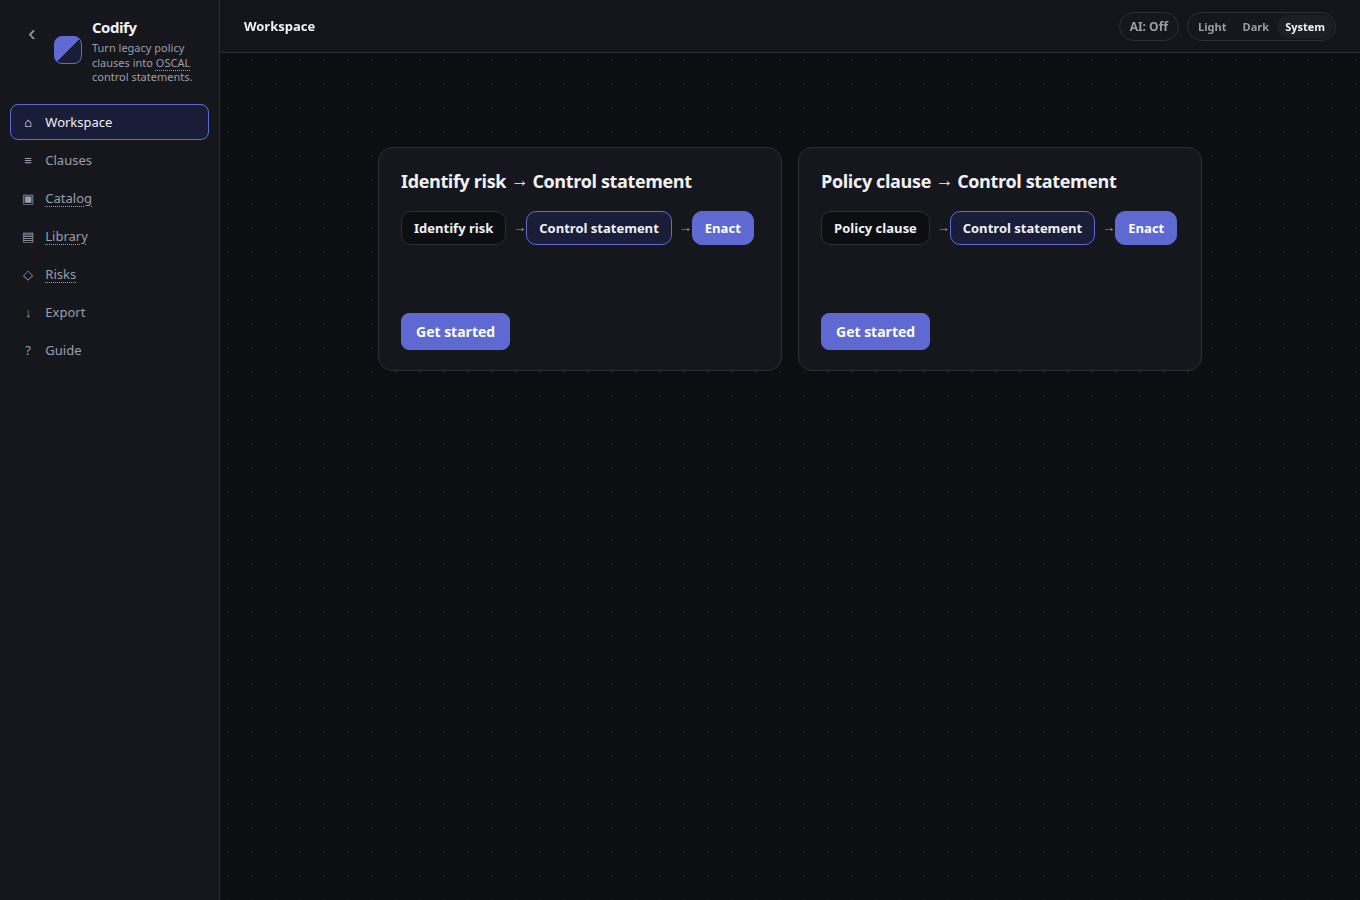
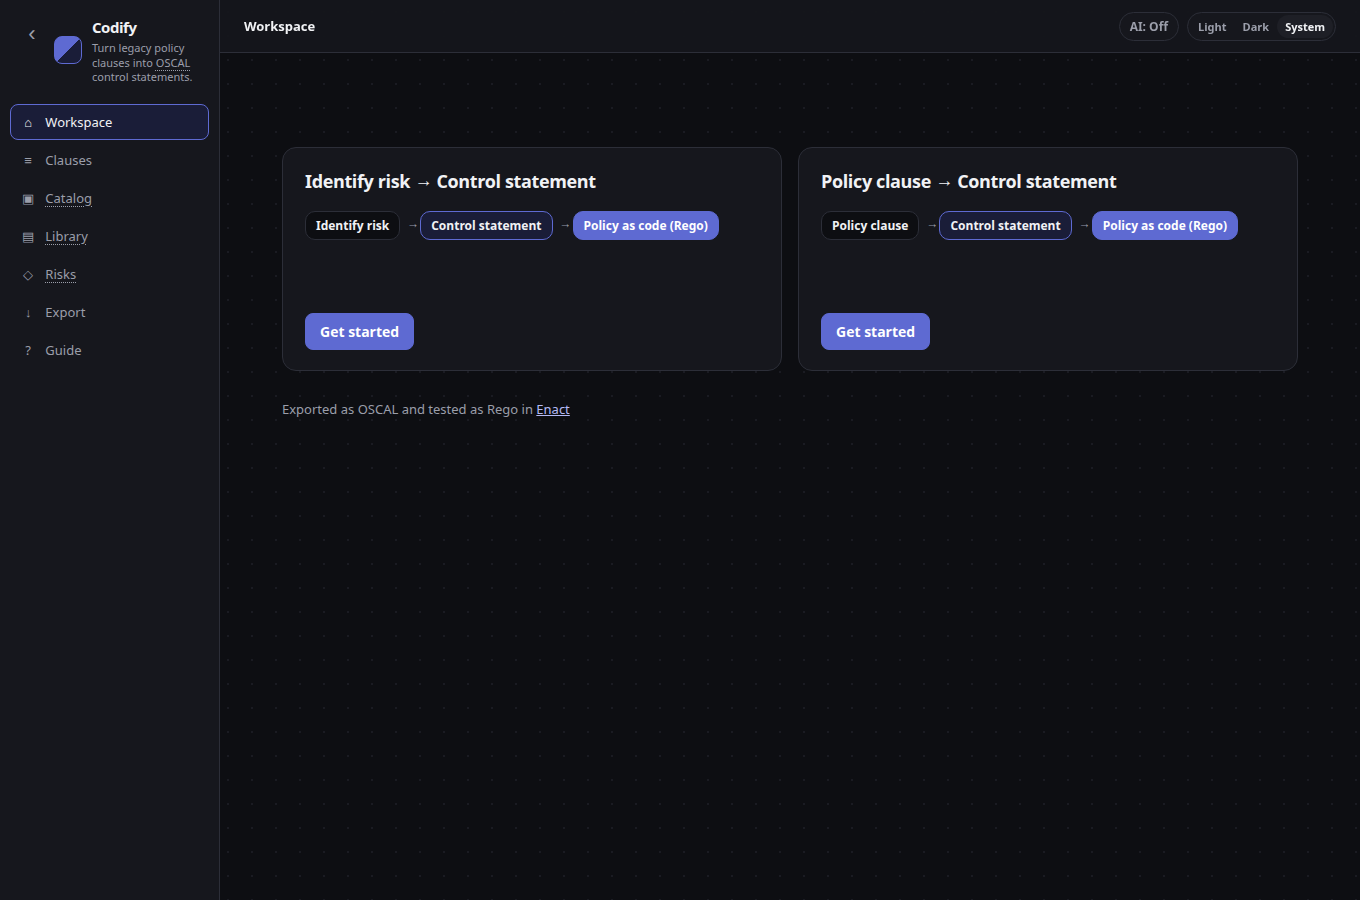
Name the last step Policy as code (Rego) (#41)
* Name the last landing step Technical policy (Rego)

First-time users do not know Enact. Flow cards now end on Technical
policy (Rego), with a muted caption that Enact tests that policy as
Rego. Send to Enact stays the action and explains the Rego handoff.

* Rename the last step to Policy as code (Rego)

Owner asked to use Policy as code (Rego) instead of Technical policy
(Rego) on the landing diagrams and matching copy.

---------

diff --git a/src/codify/static/index.html b/src/codify/static/index.html
@@ -94,23 +94,28 @@
           <div id="start-choice" class="landing-cards" role="group" aria-label="Choose a starting path">
             <article class="flow-card" aria-labelledby="flow-a-title">
               <h3 id="flow-a-title" class="flow-card__title">Identify risk → Control statement</h3>
-              <ol class="flow-card__steps" aria-label="Identify risk, then control statement, then Enact">
+              <ol class="flow-card__steps" aria-label="Identify risk, then control statement, then policy as code (Rego)">
                 <li>Identify risk</li>
                 <li>Control statement</li>
-                <li>Enact</li>
+                <li>Policy as code (Rego)</li>
               </ol>
               <button type="button" class="btn btn--primary" id="start-from-risks">Get started</button>
             </article>
             <article class="flow-card" aria-labelledby="flow-b-title">
               <h3 id="flow-b-title" class="flow-card__title">Policy clause → Control statement</h3>
-              <ol class="flow-card__steps" aria-label="Policy clause, then control statement, then Enact">
+              <ol class="flow-card__steps" aria-label="Policy clause, then control statement, then policy as code (Rego)">
                 <li>Policy clause</li>
                 <li>Control statement</li>
-                <li>Enact</li>
+                <li>Policy as code (Rego)</li>
               </ol>
               <button type="button" class="btn btn--primary" id="start-from-clause">Get started</button>
             </article>
           </div>
+
+          <p id="landing-caption" class="landing-caption">
+            Exported as OSCAL and tested as Rego in
+            <a href="https://code1sentinel.github.io/enact/" target="_blank" rel="noopener noreferrer">Enact</a>
+          </p>
 
           <p id="resume" class="landing-resume" hidden>
             <button type="button" class="landing__quiet" id="resume-open">Resume</button>
@@ -284,7 +289,7 @@ User accounts shall be reviewed regularly.</textarea>
         </div>
         <button type="submit" class="icon-btn" value="cancel" aria-label="Close">×</button>
       </div>
-      <p class="dialog__lede">Download a copy on this device. Nothing is uploaded.</p>
+      <p class="dialog__lede">Download a copy on this device. Nothing is uploaded. Send to Enact turns control statements into testable Rego policy.</p>
       <div class="enact-handoff" id="enact-handoff">
         <p><strong>Codify writes the catalog. Enact runs the checks.</strong> They share a file, not a server.</p>
         <ol class="enact-handoff__steps">

diff --git a/src/codify/static/app.js b/src/codify/static/app.js
@@ -113,8 +113,8 @@ const STEP_GUIDES = {
   },
   enact: {
     title: "Send to Enact",
-    what: "Download the OSCAL catalog on this device, then open it in Enact.",
-    why: "Codify writes the catalog. Enact runs the checks. They share a file, not a server.",
+    what: "Download the OSCAL catalog on this device, then open it in Enact. This turns control statements into testable Rego policy.",
+    why: "Codify writes the catalog. Enact runs the checks as Rego. They share a file, not a server.",
     example: "Save catalog.json, open Enact, load that file.",
     mistakes: "Codify does not upload the catalog. If download is blocked, accept coverage first.",
   },
@@ -1322,7 +1322,7 @@ function renderEnactStep(box) {
   box.replaceChildren(
     el("div", { class: "card enact-panel", id: "enact-step" },
       el("h3", { class: "section-title", text: "Send to Enact" }),
-      el("p", { text: "Codify writes the catalog. Enact runs the checks. They share a file, not a server. Download only — nothing is uploaded." }),
+      el("p", { text: "Send to Enact turns control statements into testable Rego policy. Codify writes the catalog. Enact runs the checks. They share a file, not a server. Download only — nothing is uploaded." }),
       el("ol", { class: "enact-handoff__steps" },
         el("li", { text: "Download the OSCAL catalog on this device." }),
         el("li", {}, "Open ", el("a", { href: ENACT_APP, target: "_blank", rel: "noopener noreferrer", text: "Enact" }), " (Pages app)."),

diff --git a/src/codify/static/app.css b/src/codify/static/app.css
@@ -294,7 +294,7 @@ input:focus, select:focus, textarea:focus { border-color: var(--orange); outline
 
 /* Start / landing -------------------------------------------------------- */
 
-.start { max-width: 52rem; margin: 0 auto; }
+.start { max-width: 64rem; margin: 0 auto; }
 .landing {
   display: flex;
   flex-direction: column;
@@ -331,11 +331,11 @@ input:focus, select:focus, textarea:focus { border-color: var(--orange); outline
 .flow-card__steps li {
   position: relative;
   display: inline-block;
-  padding: 8px 12px;
+  padding: 6px 10px;
   background: var(--bg);
   border: 1px solid var(--border-soft);
   border-radius: 10px;
-  font: 600 13px/1.3 var(--font);
+  font: 600 12px/1.3 var(--font);
   color: var(--text);
 }
 .flow-card__steps li:nth-child(2) { border-color: var(--orange); background: var(--orange-dim); }
@@ -353,6 +353,12 @@ input:focus, select:focus, textarea:focus { border-color: var(--orange); outline
   font-weight: 600;
 }
 .flow-card .btn { align-self: start; margin-top: auto; }
+.landing-caption {
+  margin: 0;
+  font-size: 13px;
+  color: var(--muted);
+}
+.landing-caption a { color: var(--accent-text); }
 .landing-resume {
   display: flex;
   flex-wrap: wrap;

diff --git a/tests/test_landing.py b/tests/test_landing.py
@@ -29,14 +29,16 @@ def test_landing_is_two_flow_cards_with_get_started():
     risks = _card(INDEX, "start-from-risks")
     assert "Identify risk" in risks
     assert "Control statement" in risks
-    assert "Enact" in risks
+    assert "Policy as code (Rego)" in risks
+    assert ">Enact<" not in risks
     assert "Get started" in risks
     assert "Recommended" not in risks
     assert "Screens left unlocked" not in risks
     clause = _card(INDEX, "start-from-clause")
     assert "Policy clause" in clause
     assert "Control statement" in clause
-    assert "Enact" in clause
+    assert "Policy as code (Rego)" in clause
+    assert ">Enact<" not in clause
     assert "Get started" in clause
     assert "Users shall lock screens" not in clause
     assert 'id="landing-flow"' not in INDEX
@@ -85,3 +87,20 @@ def test_landing_uses_existing_tokens_and_system_fonts():
     assert ".flow-card" in CSS
     assert "fonts.googleapis" not in CSS
     assert 'href="#main"' in INDEX
+
+
+def test_landing_caption_explains_oscal_and_enact():
+    assert 'id="landing-caption"' in INDEX
+    caption = INDEX.split('id="landing-caption"', 1)[1][:400]
+    assert "Exported as OSCAL and tested as Rego in" in caption
+    assert "code1sentinel.github.io/enact" in caption
+    assert "Enact" in caption
+
+
+def test_send_to_enact_keeps_action_and_explains_rego():
+    assert "Send to Enact" in INDEX
+    assert "testable Rego policy" in INDEX
+    assert "testable Rego policy" in JS
+    assert 'enact: "Send to Enact"' in JS
+    assert 'title: "Send to Enact"' in JS
+    assert 'enact: "Enact"' not in JS

diff --git a/tests/e2e/test_landing.py b/tests/e2e/test_landing.py
@@ -40,9 +40,17 @@ def test_first_open_is_two_flow_cards(browser, base_url):
     expect(page.locator(".flow-card")).to_have_count(2)
     expect(page.locator(".flow-card").nth(0)).to_contain_text("Identify risk")
     expect(page.locator(".flow-card").nth(0)).to_contain_text("Control statement")
-    expect(page.locator(".flow-card").nth(0)).to_contain_text("Enact")
+    expect(page.locator(".flow-card").nth(0)).to_contain_text("Policy as code (Rego)")
     expect(page.locator(".flow-card").nth(1)).to_contain_text("Policy clause")
     expect(page.locator(".flow-card").nth(1)).to_contain_text("Control statement")
+    expect(page.locator(".flow-card").nth(1)).to_contain_text("Policy as code (Rego)")
+    expect(page.locator("#landing-caption")).to_contain_text(
+        "Exported as OSCAL and tested as Rego in"
+    )
+    expect(page.locator("#landing-caption a")).to_have_text("Enact")
+    expect(page.locator("#landing-caption a")).to_have_attribute(
+        "href", "https://code1sentinel.github.io/enact/"
+    )
     expect(page.locator(".checklist")).to_have_count(0)
     expect(page.get_by_text("Set up this workspace")).to_have_count(0)
     expect(page.get_by_text("How to use Codify")).to_have_count(0)

diff --git a/tests/e2e/test_risk_first_flow.py b/tests/e2e/test_risk_first_flow.py
@@ -41,6 +41,8 @@ def test_path_a_risks_then_controls_then_review_then_enact(page):
     page.locator(".editor__primary >> text=Accept").click()
     page.click("#flow-next")
     expect(page.locator("#enact-step")).to_contain_text("Send to Enact")
+    expect(page.locator("#enact-step")).to_contain_text("testable Rego policy")
+    expect(page.locator("#stepper")).to_contain_text("Send to Enact")
     expect(page.locator("#enact-download")).to_be_enabled()
     with page.expect_download() as dl:
         page.click("#enact-download")

diff --git a/docs/prds/technical-policy-rego-label.md b/docs/prds/technical-policy-rego-label.md
@@ -1,0 +1,85 @@
+# PRD: Name the last step Policy as code (Rego)
+
+| Field | Value |
+| --- | --- |
+| Status | Agreed |
+| Slice issues | Acceptance criteria live here (this agent cannot open GitHub issues). |
+| Supercedes / extends | [docs/prd.md](../prd.md), [landing-flow-cards.md](landing-flow-cards.md) |
+| Author | Product owner / this slice |
+| Date | 2026-10-15 |
+
+## Problem
+
+First-time users do not know what **Enact** is. The landing diagrams
+end on that word, so the last step looks like a product they have never
+heard of instead of the outcome: policy as code in Rego.
+
+## Users
+
+- **Primary:** a GRC reviewer opening Codify for the first time.
+- **Not this slice:** changing the two authoring paths, export formats,
+  or Enact itself.
+
+## Job to be done
+
+See that the last step is **policy as code (Rego)**, with Enact
+named only as where that policy is tested.
+
+## Scope
+
+- In:
+  - Landing flow diagrams (and any stepper/guide label that is just
+    **Enact**) rename the last step to **Policy as code (Rego)**.
+    Flows read: Identify risk → Control statement → Policy as code
+    (Rego), and Policy clause → Control statement → Policy as code
+    (Rego).
+  - At most one short muted caption under the diagrams:
+    *Exported as OSCAL and tested as Rego in Enact*, with **Enact**
+    linking to the existing Enact Pages app.
+  - Keep **Send to Enact** as the action. Add helper text that it
+    turns control statements into testable Rego policy (export dialog
+    and the in-app enact step / guide).
+- Out:
+  - New outbound calls, font hosts, CDNs, or AI keys.
+  - Changing OSCAL export, coverage gates, or the two start paths.
+
+## Success criteria
+
+- Given the landing, When it is shown, Then each flow card's last
+  step is **Policy as code (Rego)** and is not the bare word Enact.
+- Given the landing, When the caption is present, Then it is muted
+  and **Enact** is a link to the Enact app.
+- Given **Send to Enact** (dialog or final step), When it is shown,
+  Then the action title stays **Send to Enact** and helper text
+  explains it turns control statements into testable Rego policy.
+- Given a stepper or step guide whose label was only **Enact**, When
+  it renders, Then it says **Policy as code (Rego)**. Labels that
+  already say **Send to Enact** stay that action wording.
+- Skip-to-content still targets `#main`. No new outbound origins.
+
+## Design references
+
+Same Mobbin screens as [landing-flow-cards.md](landing-flow-cards.md).
+This slice only renames the last node and adds a muted caption; it
+does not invent a layout.
+
+| Screen / flow | Mobbin URL | What we take from it |
+| --- | --- | --- |
+| Sprig — start cards | https://mobbin.com/screens/77add735-ba8c-4f49-a512-fabd8b2e1826 | Two equal start cards. |
+| Klaviyo — headline + flow | https://mobbin.com/screens/88633529-5820-4f59-93e0-98d0806ad4fd | Simple node flow on each card. |
+| Microsoft Copilot — How it works | https://mobbin.com/screens/ebac045b-3c68-4dd0-8811-1ce2a31aaf05 | One short caption, generous whitespace. |
+| fal — path choice | https://mobbin.com/screens/484439bd-e04c-4d68-b977-acfc6937eebe | Quiet secondary under the cards. |
+
+## Privacy and outbound calls
+
+No new network call, origin, or leave-device path
+([ADR 0003](../adr/0003-local-only-privacy-model.md)). The Enact link
+is the same user-chosen `<a href>` already used on Send to Enact.
+
+## Open questions
+
+None.
+
+## Decision log
+
+No new ADR. Paths stay [ADR 0013](../adr/0013-risk-first-authoring-flow.md).

diff --git a/docs/prd.md b/docs/prd.md
@@ -116,10 +116,13 @@ Google Fonts. See
 [docs/prds/system-fonts-no-google.md](prds/system-fonts-no-google.md).
 
 A first visit is two side-by-side flow cards only: Identify risk →
-Control statement (→ Enact), and Policy clause → Control statement
-(→ Enact). Each card has a mini step diagram and **Get started**. A
-saved project shows the same cards with a small Resume link. See
-[docs/prds/landing-flow-cards.md](prds/landing-flow-cards.md). First-run copy,
+Control statement → Policy as code (Rego), and Policy clause →
+Control statement → Policy as code (Rego). Each card has a mini
+step diagram and **Get started**. A muted caption points at Enact.
+A saved project shows the same cards with a small Resume link. See
+[docs/prds/landing-flow-cards.md](prds/landing-flow-cards.md) and
+[docs/prds/technical-policy-rego-label.md](prds/technical-policy-rego-label.md).
+First-run copy,
 the result step, review help, and export defaults are in
 [docs/prds/first-run-clarity.md](prds/first-run-clarity.md).
 A second first-time walkthrough polish (accepted state, `[N]` prompts,

diff --git a/docs/book/getting-started.md b/docs/book/getting-started.md
@@ -23,7 +23,7 @@ A saved project on this device shows the same cards with a small **Resume** link
 - **Identify risk → Control statement** — enter identified risks, then write control statements that treat them. **Get started** opens the risk entry step.
 - **Policy clause → Control statement** — paste a clause (or try the example). **Get started** opens the clause box. Codify drafts as before; then you link each draft to a risk.
 
-Both flows continue to Enact.
+Both flows end at **Policy as code (Rego)**. A muted line on the landing explains the catalog is exported as OSCAL and tested as Rego in [Enact](enact.md).
 
 Both paths share **Review** and **Send to Enact**. Every risk needs a control statement; every control must be linked to a risk.
 

diff --git a/CHANGELOG.md b/CHANGELOG.md
@@ -76,6 +76,14 @@ There are no release tags; version numbers match `src/codify/__init__.py`.
 
 ### Changed
 
+- Landing diagrams and first-run copy name the last step **Policy as
+  code (Rego)** instead of a bare **Enact**
+  ([docs/prds/technical-policy-rego-label.md](docs/prds/technical-policy-rego-label.md)).
+  A muted caption: *Exported as OSCAL and tested as Rego in Enact*
+  (Enact still links to the Enact app). **Send to Enact** stays the
+  action, with helper text that it turns control statements into
+  testable Rego policy. No new outbound calls.
+
 - Landing is only the two flows, side by side
   ([docs/prds/landing-flow-cards.md](docs/prds/landing-flow-cards.md)):
   Identify risk → Control statement (→ Enact), and Policy clause →

diff --git a/README.md b/README.md
@@ -52,8 +52,10 @@ loads about 13 MB, which the browser then caches. All three ways run the same
 code.
 
 The first open is two side-by-side flows: **Identify risk → Control
-statement** and **Policy clause → Control statement** (then Enact). Each
-card has a mini step diagram and **Get started**. A saved project on this
+statement → Policy as code (Rego)** and **Policy clause → Control
+statement → Policy as code (Rego)**. Each card has a mini step
+diagram and **Get started**. A muted line explains the catalog is
+exported as OSCAL and tested as Rego in Enact. A saved project on this
 device shows the same cards with a small **Resume** link.
 
 To see the clause path, choose it, edit or replace the example, and press

diff --git a/docs/prds/README.md b/docs/prds/README.md
@@ -15,6 +15,7 @@ before implementation.
 - [welcome-splash.md](welcome-splash.md) — superseded by landing-start.md
 - [landing-start.md](landing-start.md) — superseded by landing-flow-cards.md
 - [landing-flow-cards.md](landing-flow-cards.md) — two flow cards + OSCAL risk statements
+- [technical-policy-rego-label.md](technical-policy-rego-label.md) — last step is Policy as code (Rego)
 - [first-run-clarity.md](first-run-clarity.md) — first-time GRC walkthrough fixes
 - [second-walkthrough-polish.md](second-walkthrough-polish.md) — second first-time walkthrough
 - [remove-risk-register.md](remove-risk-register.md) — drop the local risk register
